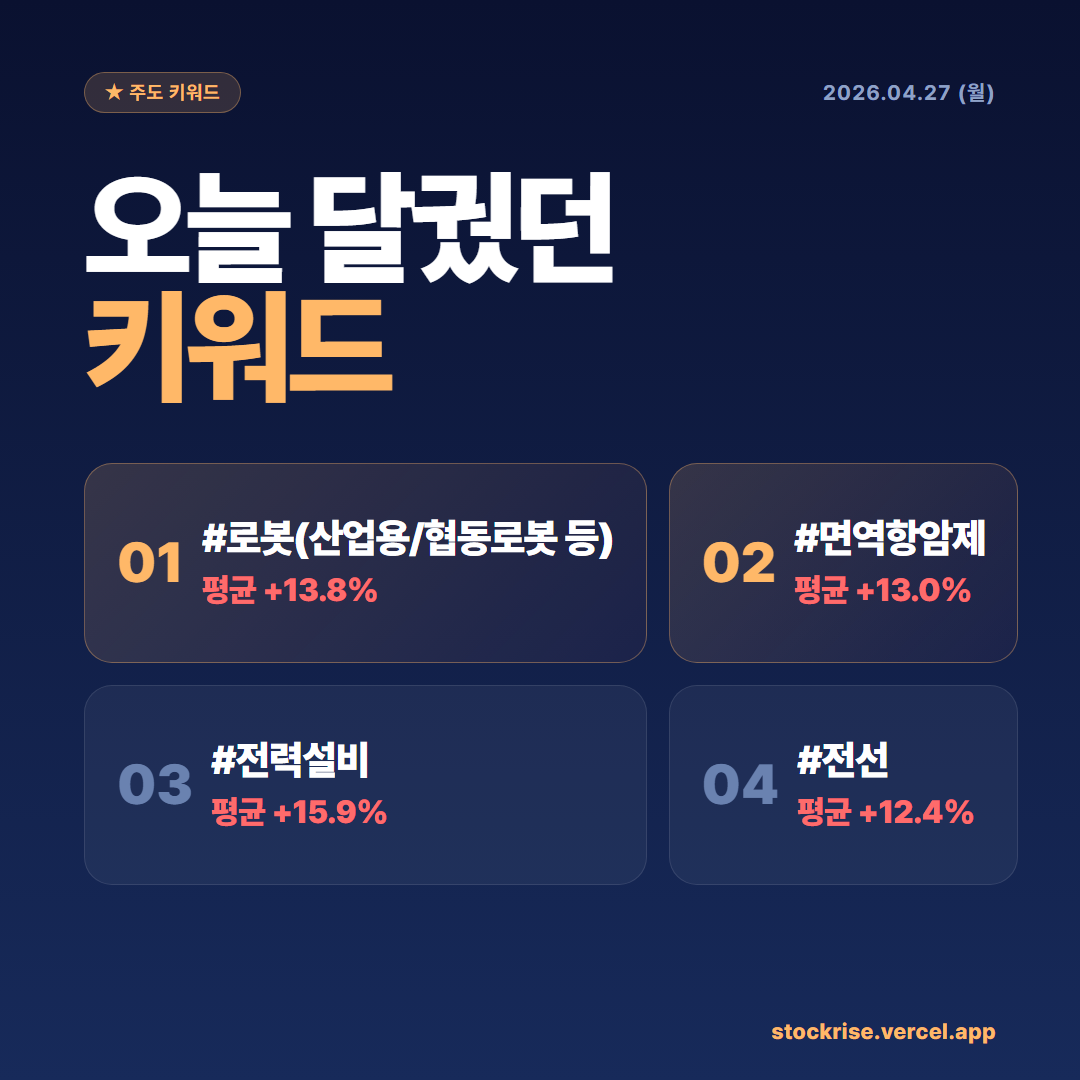
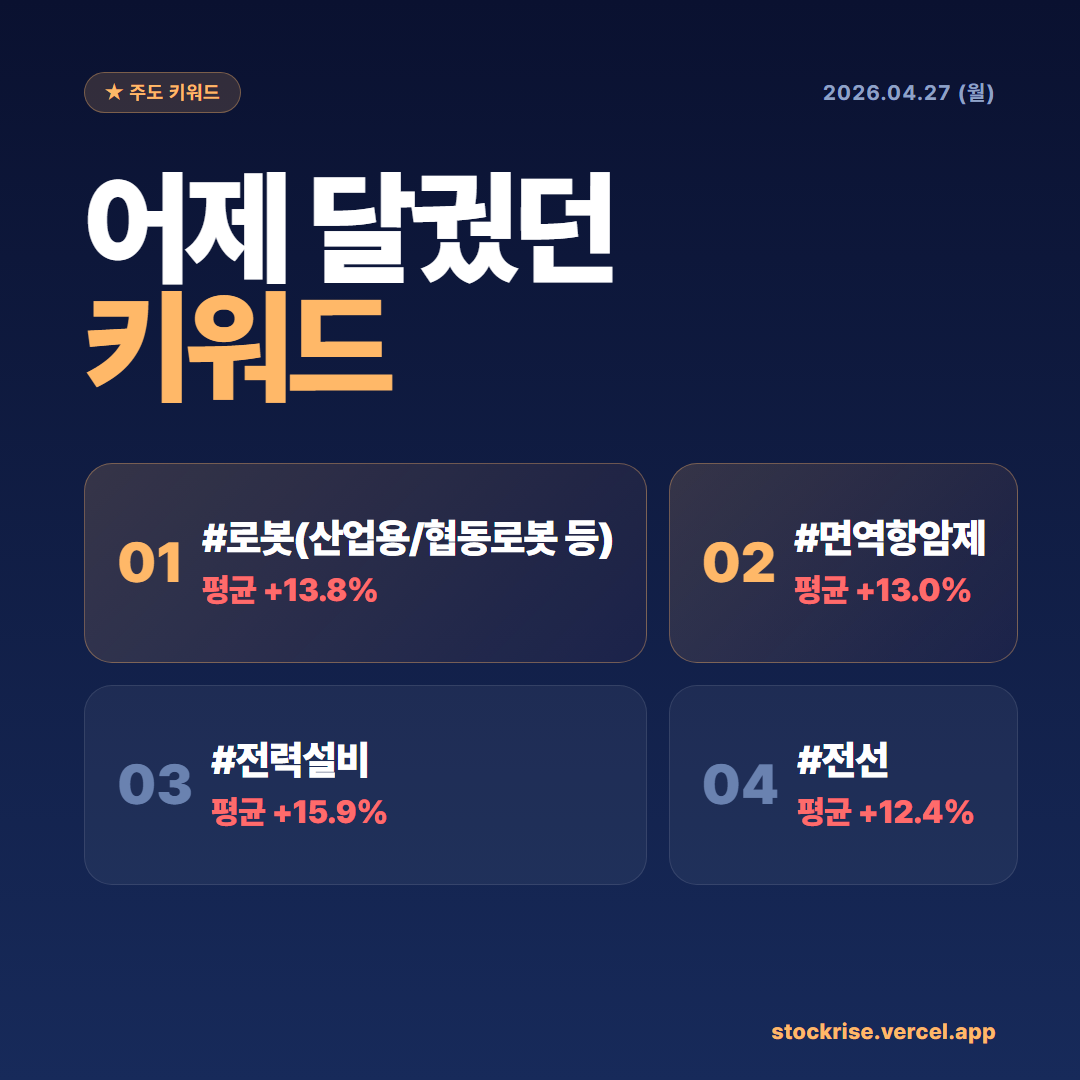
fix(cards+cron): 4가지 이슈 한번에 — 라벨·헤드라인·cron·동시실행
A. PRE 시리즈 라벨 "오늘" → "어제"
   - 08:05 PRE 카드는 어제 마감 데이터 기반 — '오늘 달궜던 키워드'·
     '오늘의 대장 종목' 모두 부적절
   - title_top: '어제 달궜던' / '어제의' 로 변경
   - leader/leader2/close/close2 는 16시 이후 당일 데이터라 '오늘' 유지

B. 새벽 브리핑·뉴욕 마감 헤드라인 노이즈 차단 강화
   - 사용자 지적: 'IBK 삼성SDI 분석', 'KB증권 ETN 상장', '국장 개미들...
     한국증시' 등 한국 미시뉴스가 통과
   - DAWN_BLACKLIST 대폭 확장:
     · 한국 증권사 12개 (IBK·KB증권·한투·미래에셋·NH·키움 등)
     · 국내 종목 분석 키워드 (삼성SDI·셀트리온·카카오 등)
     · 한국 시장 키워드 (국장·한국증시·동학개미·코스피)
     · 신규 상품 (ETN·ETF 상장)
   - 검증 결과: 오픈AI 영향 글로벌 반도체·뉴욕증시·AI 헤드라인만 통과

C. cron 30분 간격 안 됨
   - 어제 cron-trigger.py SCHEDULE 12회로 늘렸지만 외부 cron-job.org
     호출이 매시 6분에만 와서 09:36 슬롯 미발사 확인
   - 해결: collect.yml 에 GitHub Actions native cron 직접 추가
     · '6,36 0,1,2,3,4,5 * * 1-5' (KST 09:06~14:36 30분 간격)
     · '36 6 * * 1-5' (KST 15:36 closing 1차)
     · '6 7 * * 1-5' (KST 16:06 closing 최종)
   - 외부 cron 호출 누락돼도 native cron 백업 발사

D. 동시 실행 race condition 방지
   - 외부 cron + native cron 거의 같은 시각 발사 가능
   - concurrency: { group: collect, cancel-in-progress: false } 추가
   - 두 트리거 충돌 시 큐잉 처리, git push race 회피

Changed region(s): [[0.0611, 0.1528, 0.275, 0.275]]

diff --git a/cards/config.py b/cards/config.py
@@ -65,10 +65,20 @@ DAWN_WHITELIST = [
 ]
 
 # 블랙리스트 — 글로벌·마켓 키워드 매치돼도 이 단어 들어가면 제외
+# (한국 증권사 분석·국내 종목·신규 상품 등 글로벌 마켓 무빙 아닌 노이즈 차단)
 DAWN_BLACKLIST = [
+    # 한국 증권사 리포트·분석
+    'ibk', 'ibk투자', 'kb증권', 'kb투자', '한국투자', '한투', '미래에셋', '한화투자',
+    '대신증권', 'nh투자', '키움', '신한투자', '삼성증권', 'sk증권',
+    # 국내 종목 분석성 키워드
+    '삼성sdi', '삼성바이오', '삼성전기', '삼성에스디아이',
+    'sk이노', 'sk바이오', '셀트리온', '카카오', '네이버주', 'lg에너지',
+    # 한국 시장·매크로 (글로벌 헤드라인이 아님)
+    '국장', '한국증시', '한국 증시', '코스닥', '코스피', '개미', '동학개미',
+    # 신규 상품·미시뉴스
+    'etn', 'etf 상장', 'etf 출시', 'etf 신규',
     '리츠', '회생절차', '미상환', '사채', '단독]',
-    '제이알', '코스닥', '코스피',  # 한국 종목·단독 뉴스 패턴
-    '청약', '공모주', '신고가', '관리종목',
+    '제이알', '청약', '공모주', '신고가', '관리종목',
 ]
 TOP_THEMES_PRE = 4         # pre  — 키워드 카드 수
 TOP_HOT_THEMES = 2         # pre  — 강조 hot 처리 상위 N

diff --git a/cards/data_loader.py b/cards/data_loader.py
@@ -334,7 +334,7 @@ def build_pre(day):
         'series': 'pre',
         'date_full': day['date_full'],
         'label': '★ 주도 키워드',
-        'title_top': '오늘 달궜던',
+        'title_top': '어제 달궜던',
         'title_em': '키워드',
         'keywords': [
             {
@@ -403,7 +403,7 @@ def build_pre3(day):
         'series': 'pre',
         'date_full': day['date_full'],
         'label': '★ 테마별 대장',
-        'title_top': '오늘의',
+        'title_top': '어제의',
         'title_em': '대장 종목',
         'themes': [
             {
